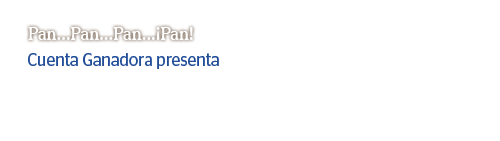
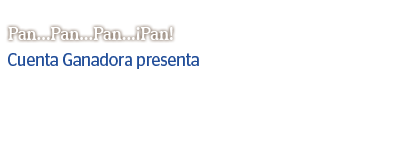
Nuevo header

Changed region(s): [[0.0, 0.1702, 0.45, 0.3121], [0.0, 0.3688, 0.51, 0.4823]]

diff --git a/public/assets/app.css b/public/assets/app.css
@@ -1309,14 +1309,14 @@ input#vote_submit.button.disabled {
 }
 #header{
   overflow: hidden;
-  background: url(/images/header.png?1312474805) no-repeat;
+  background: url(/images/header.png?1312475238) no-repeat;
 }
 div#logo{
   margin-top:0 !important;
   height:136px;
 }
 h2#contest_logo a{
-  margin-left:250px;
+  margin-left:350px;
   height:130px;
   background: url(/images/logo_concurso.png?1312474818) no-repeat;
 }

diff --git a/public/stylesheets/layout.css b/public/stylesheets/layout.css
@@ -1240,7 +1240,7 @@ div#logo{
   height:136px;
 }
 h2#contest_logo a{
-  margin-left:250px;
+  margin-left:350px;
   height:130px;
   background: url('/images/logo_concurso.png') no-repeat;
 }
